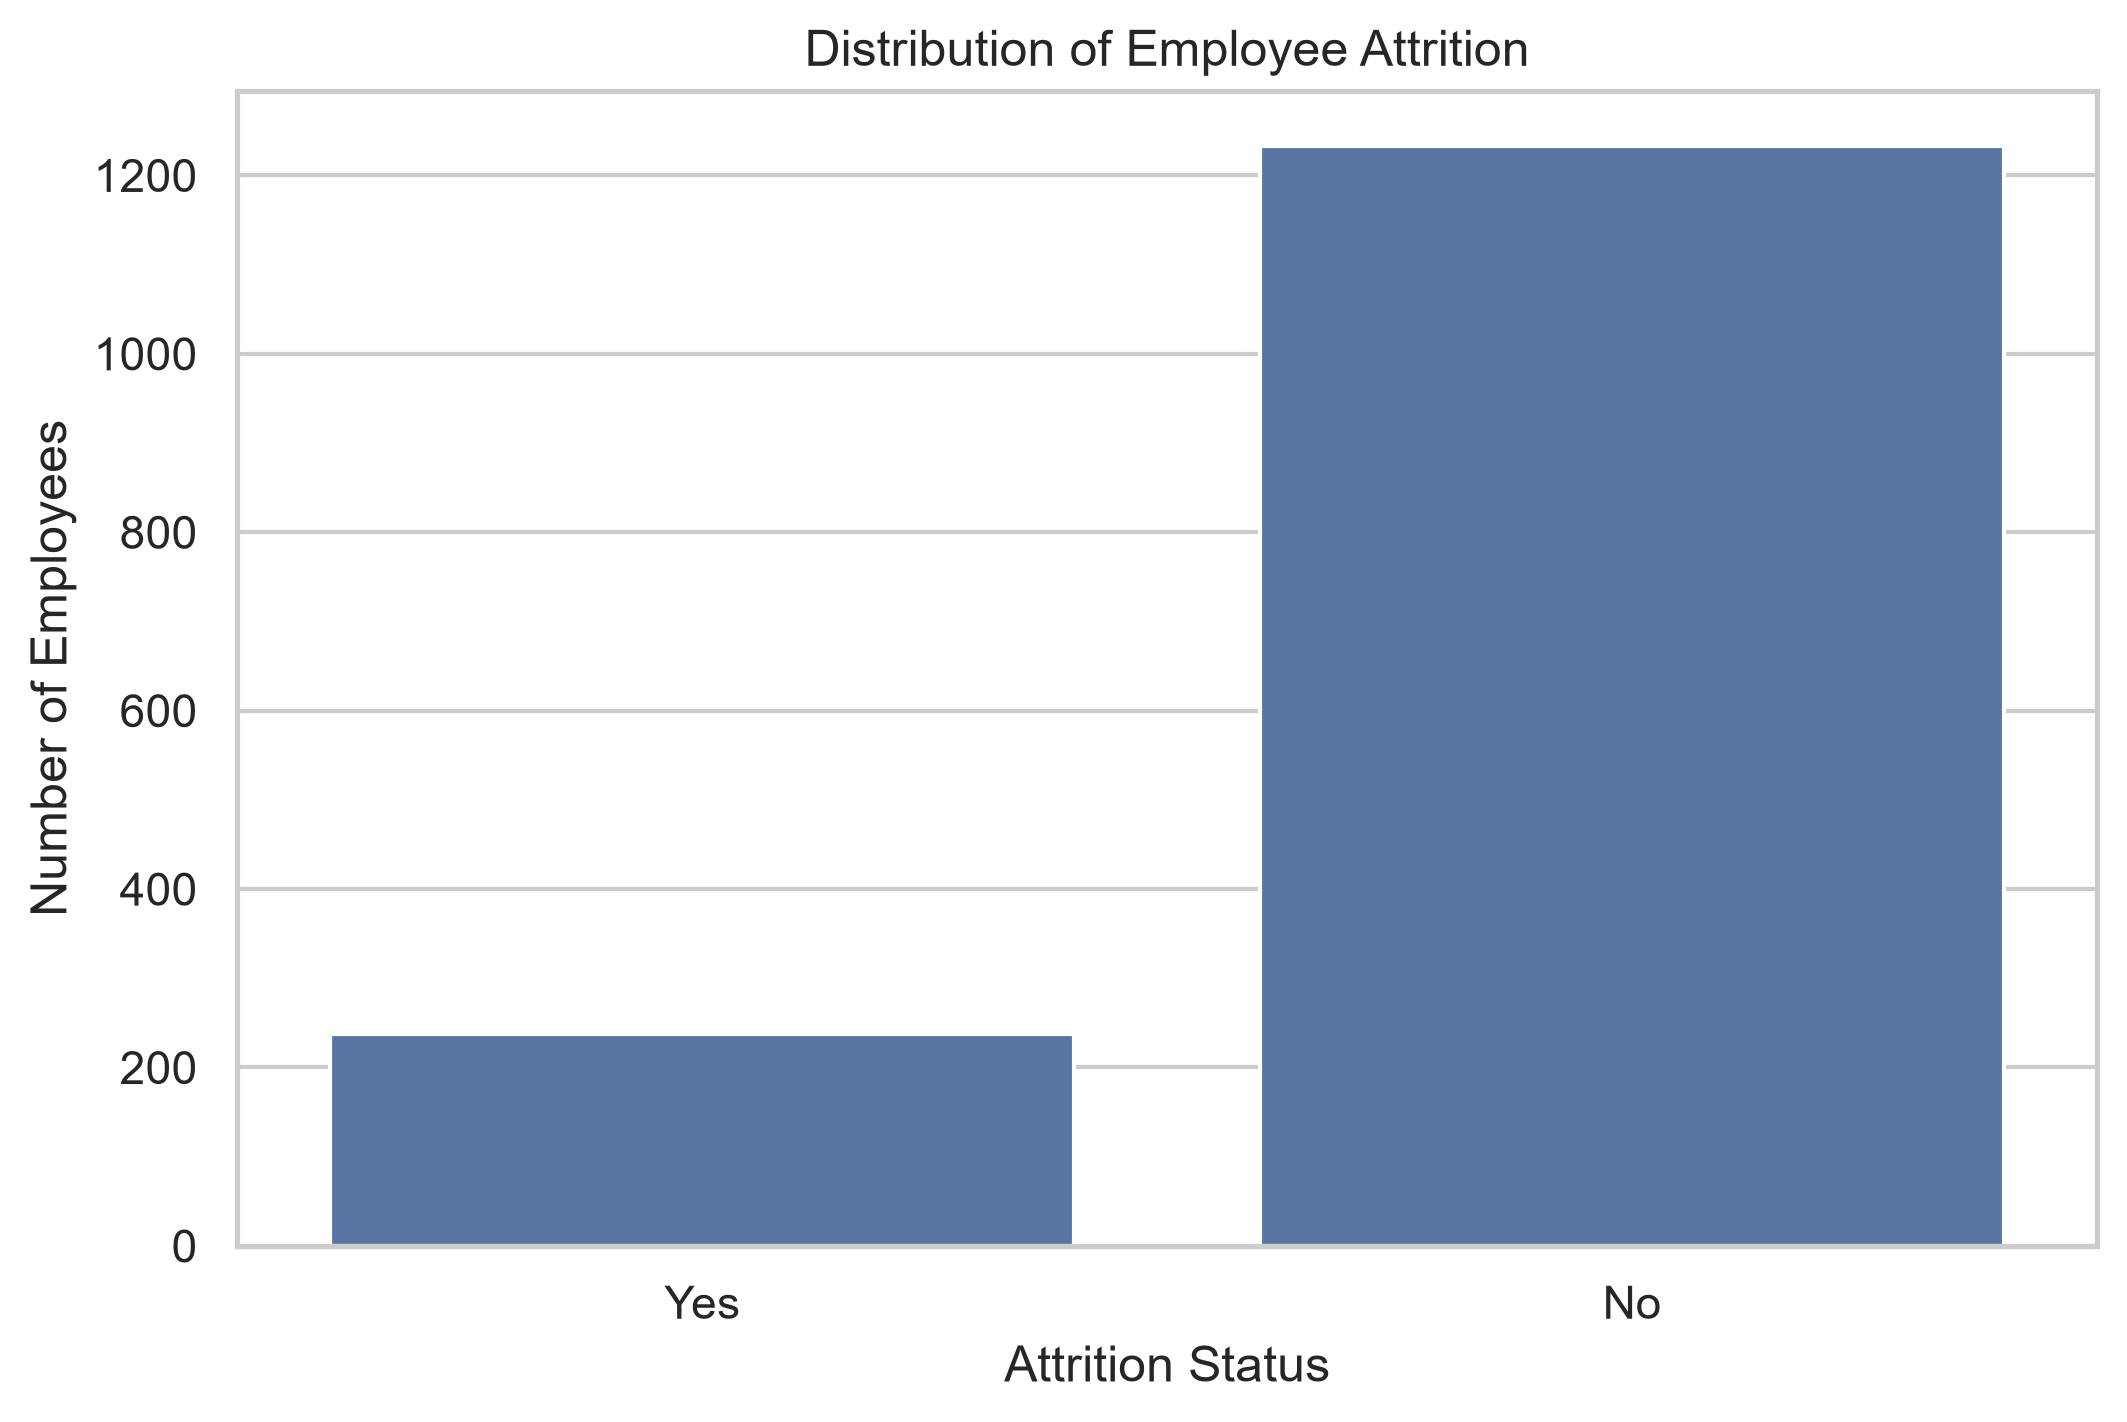
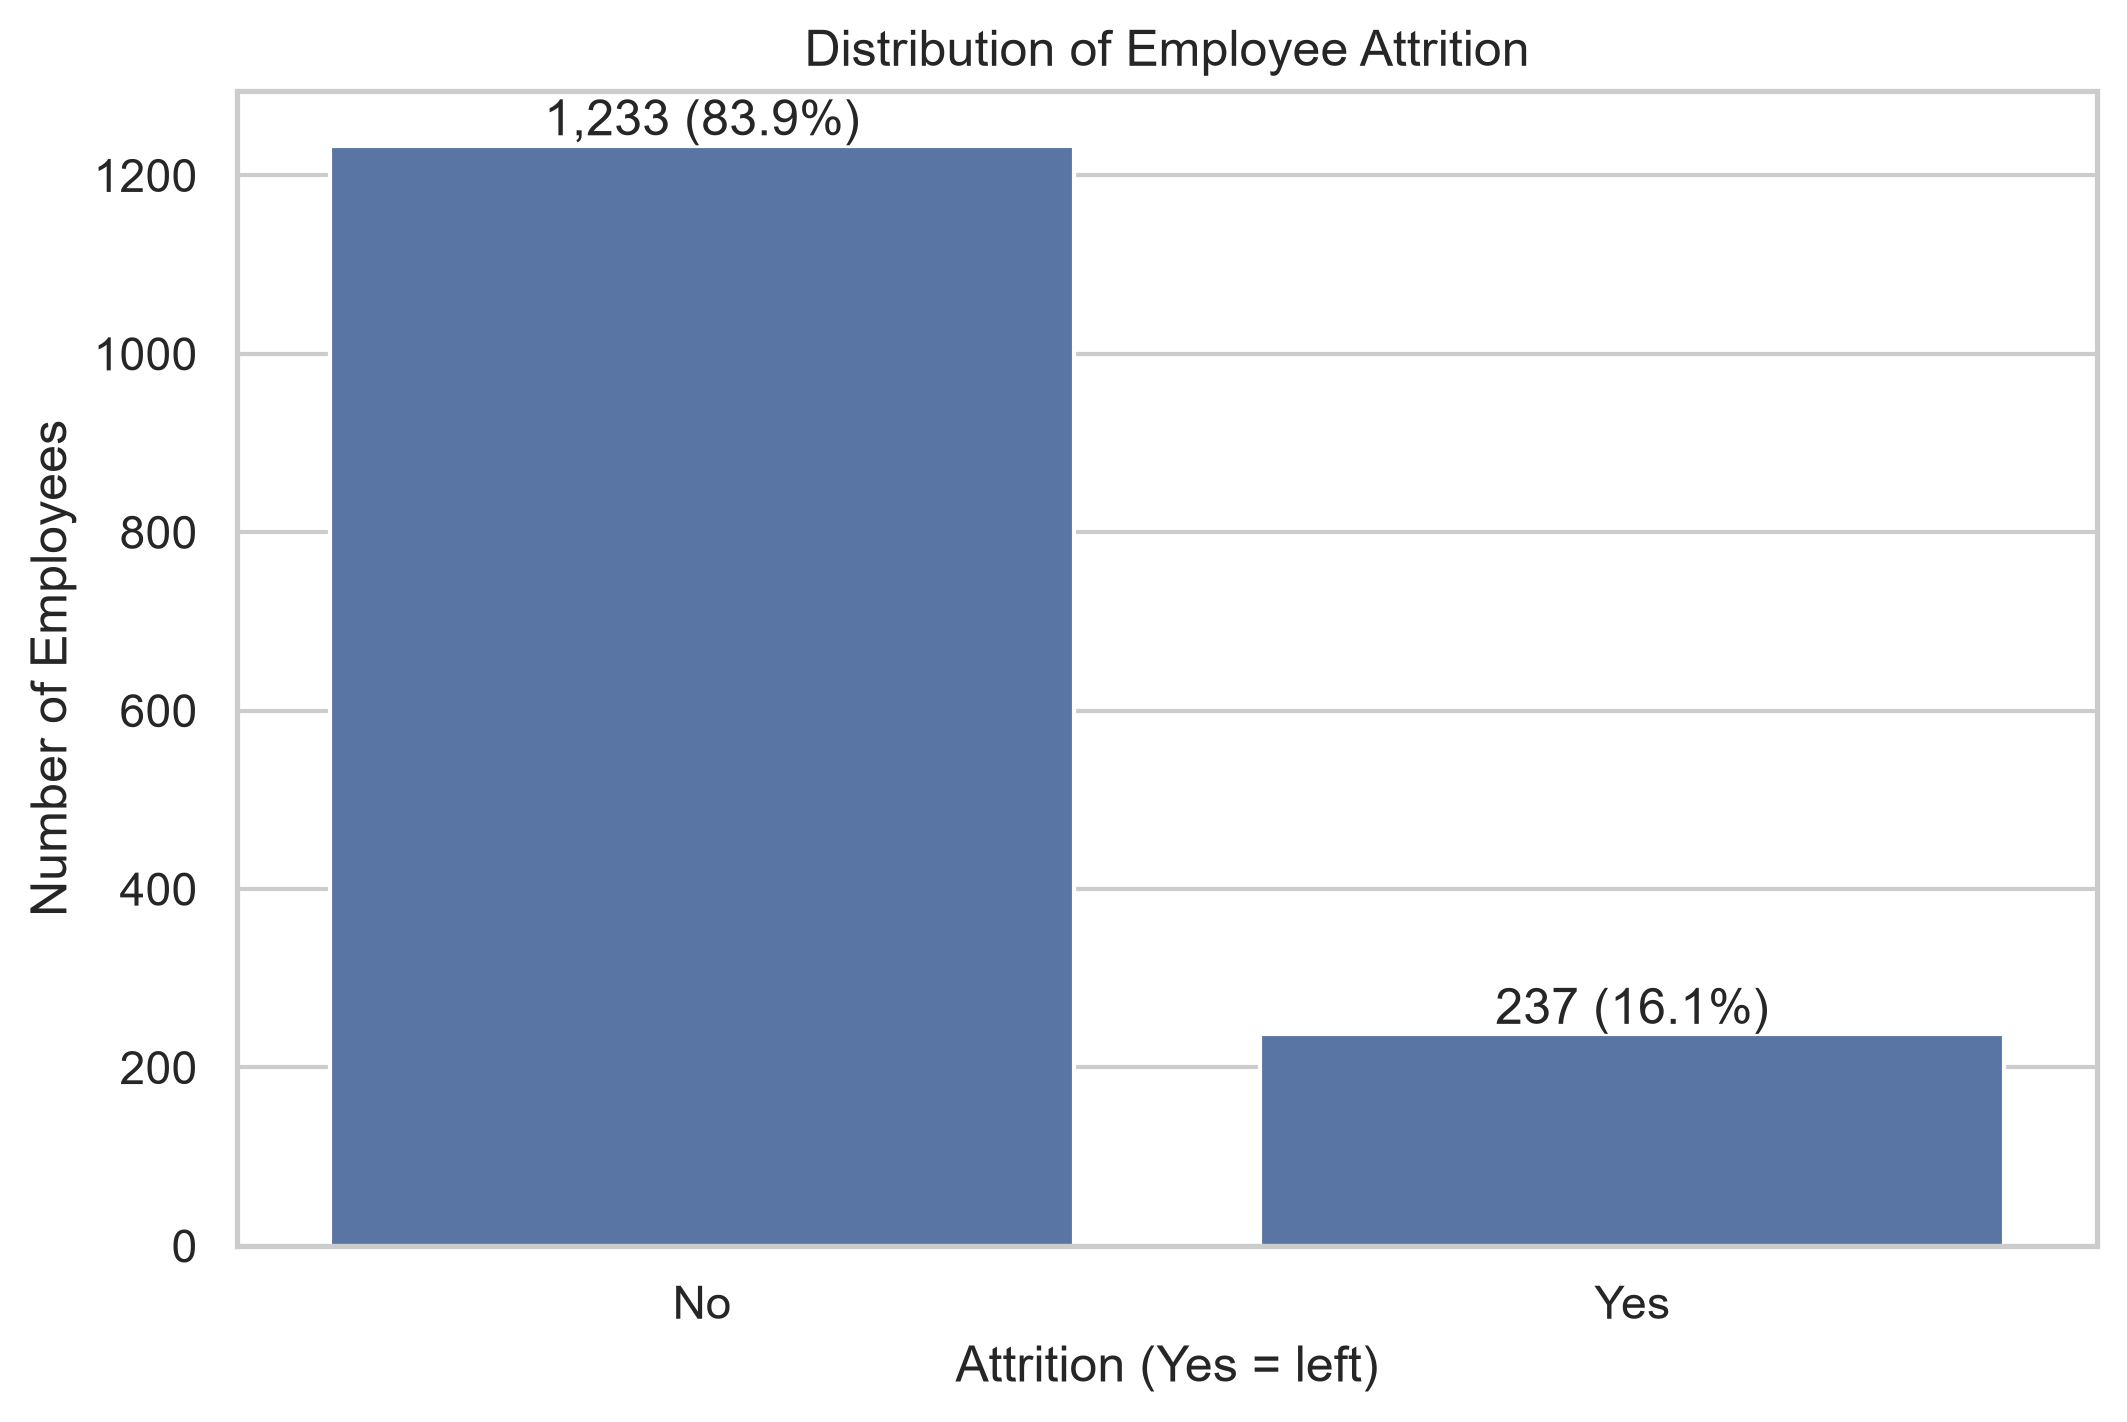
Organise EDA by hypothesis and rework attrition baseline (4.1)

diff --git a/CHANGELOG.md b/CHANGELOG.md
@@ -4,6 +4,17 @@ Changes made to the team notebook after it was copied from the team leader's Col
 (`EMPLOYEE ATTRITION PREDICTION .ipynb`, last edited 2026-11-24) into this repository.
 Newest first.
 
+## 2026-11-25: EDA organised by hypothesis; 4.1 reworked
+
+- Section 4 intro: replaced the 10-item list with an outline organised by the
+  hypotheses (4.1 baseline, 4.2–4.8 = H1–H7, 4.9 correlation, 4.10 scorecard). All
+  items from the original list are kept, grouped under the hypothesis they test;
+  job role, work-life balance and education are added to complete H4, H6 and H7.
+- 4.1: one table with counts **and** percentages (was two separate prints); bars
+  labelled with count and %; finding added (16.1% baseline, class imbalance →
+  judge models on precision/recall/F1). Removed the stand-alone "Visualisation" heading.
+- The two age charts are moved under 4.4 (H3: tenure and age), marked as work in progress.
+
 ## 2026-11-25: Restructured sections 1–3
 
 - Every subsection now follows one pattern: a one-sentence intro (what we check and
